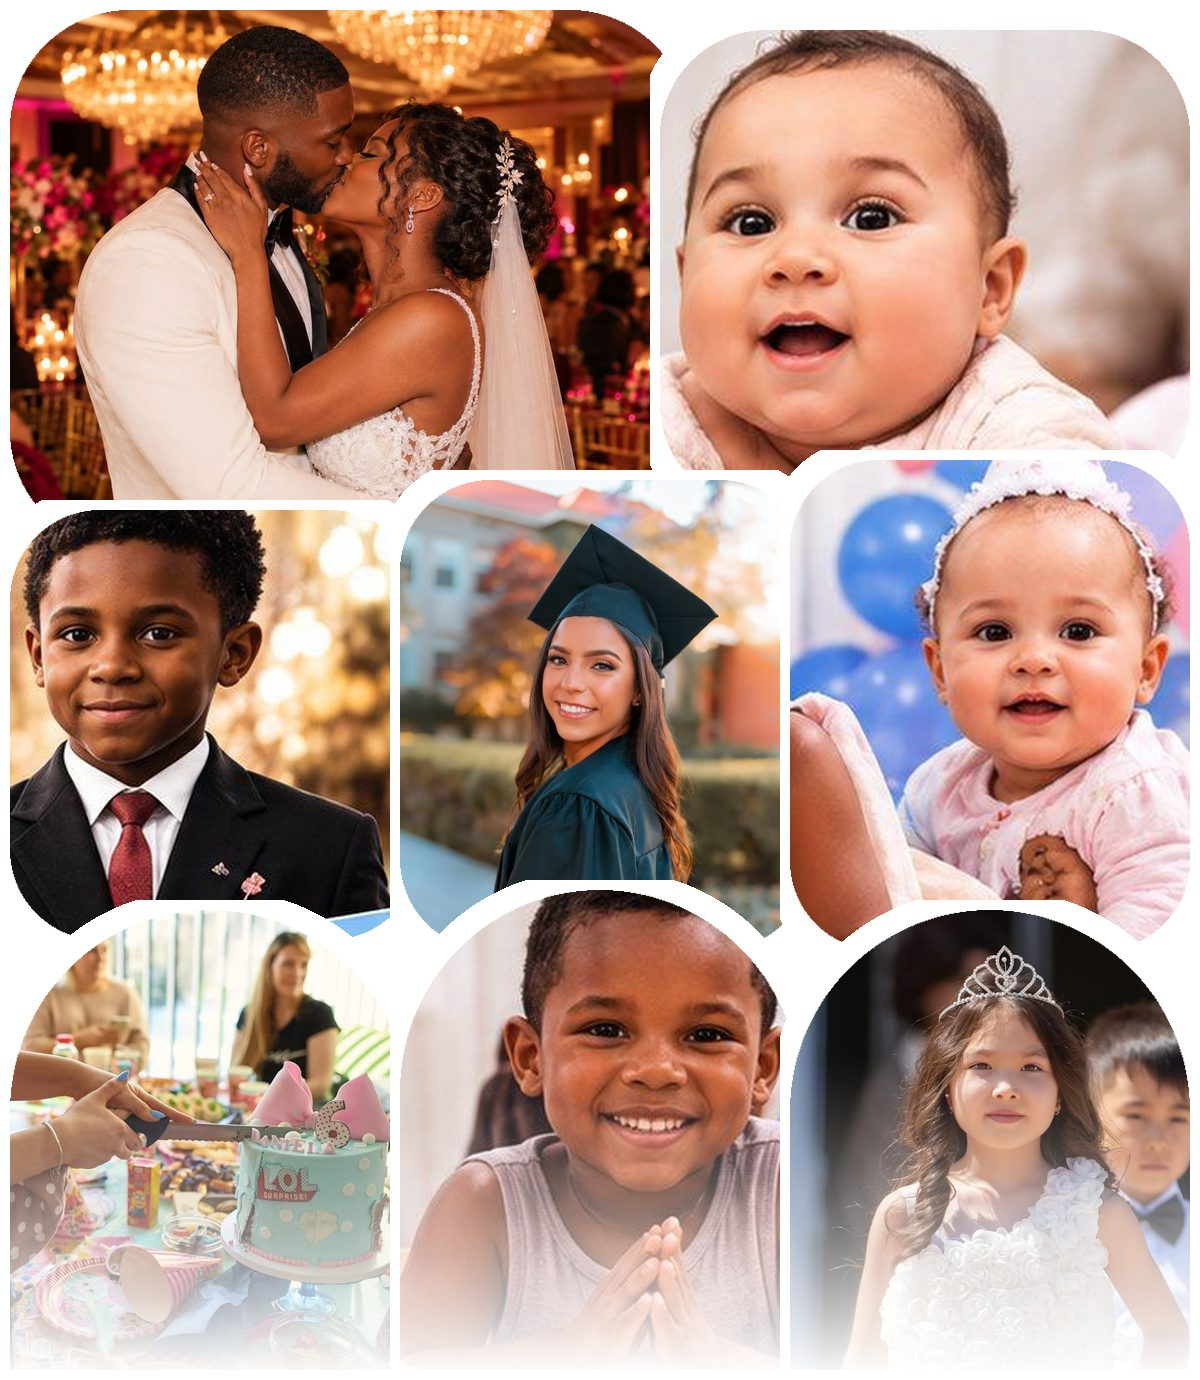
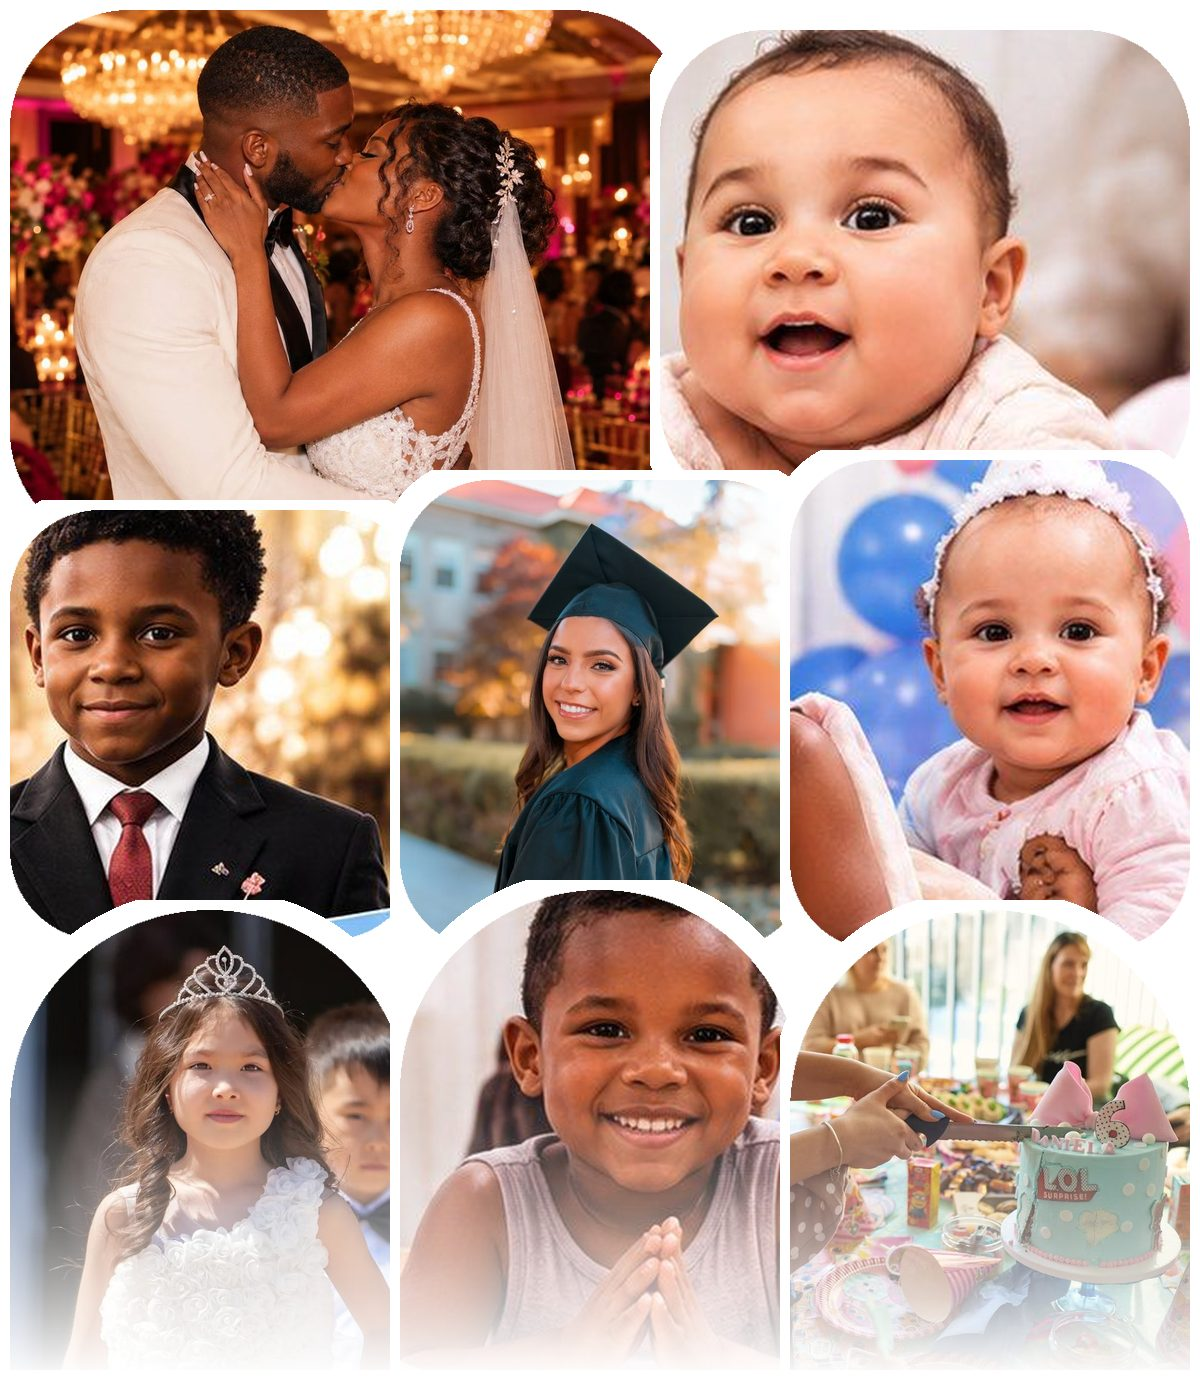
Page d'accueil : communion en bas à gauche, anniversaire en bas à droite
Claude-Session: https://claude.ai/code/session_01DZD1fyPbKcUBTkn1qnKi7H

Changed region(s): [[0.6475, 0.6543, 1.0, 0.9971], [0.0, 0.6543, 0.3392, 0.9971]]

diff --git a/public/index.html b/public/index.html
@@ -26,7 +26,7 @@
 </head>
 <body>
   <main class="container" style="max-width:480px">
-    <img class="hero-collage" src="/img/maquette/collage.jpg?v=14" alt="Mariage, baptême, anniversaire, remise de diplôme : tous vos moments">
+    <img class="hero-collage" src="/img/maquette/collage.jpg?v=15" alt="Mariage, baptême, anniversaire, remise de diplôme : tous vos moments">
 
     <p style="text-align:center;margin:0">
       <span class="logo logo-lg"><img src="/img/logo.png" alt=""><span>MaFel<b>i</b>za</span></span>
